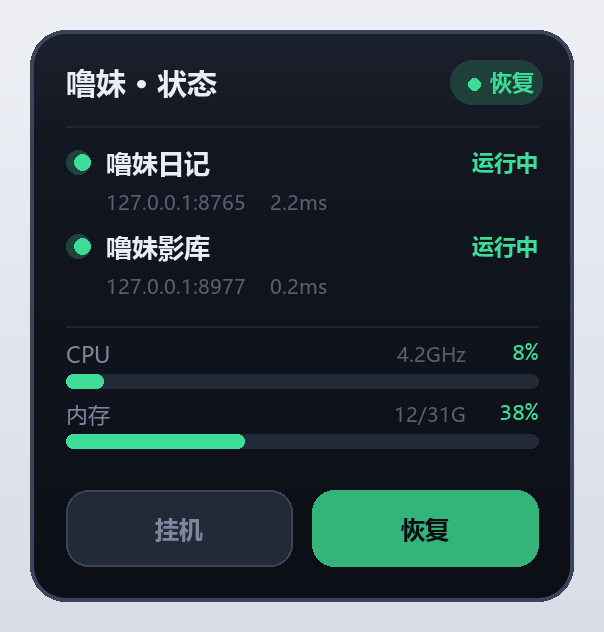
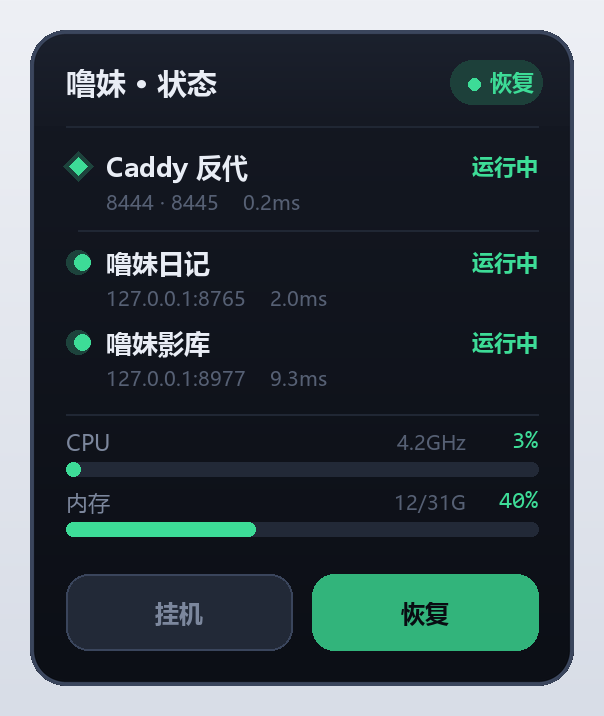
feat(widget): 增加 Caddy 反代入口状态行
Caddy 是日记(8444)与影库(8445)共用的入口，它挂了两个服务会同时失联，
而本机 8765/8977 两个端口还都通 —— 只看端口的面板看不出这种情况。
所以单独一行，菱形圆点与下面两个圆形服务点区分，入口与后端之间加淡分隔线。
三态：两个站点都在=运行中、只在一个=部分、都不在=未运行。
托盘图标同步改为三条色条（上=Caddy），不跑 Caddy 时只画两条。

diff --git a/lulu-watch/widget.py b/lulu-watch/widget.py
@@ -59,7 +59,7 @@ SCALE = _system_scale()
 
 
 # ==================== 外观常量（逻辑坐标，渲染时乘 SCALE）====================
-W, H = 272, 286
+W, H = 272, 328
 RADIUS = 18
 SS = 3                       # 圆角超采样倍数
 KEY = "#ff00ff"              # 透明键色
@@ -91,6 +91,11 @@ MODE_IDLE = "79d386e3-3601-482d-aeb4-cc38e16c3d8f"
 MODE_NORMAL = "381b4222-f694-41f0-9685-ff5bb260df2e"
 
 SERVICES = [("噜妹日记", 8765), ("噜妹影库", 8977)]
+
+# Caddy 是这两个服务共用的入口：8444 -> 日记、8445 -> 影库。
+# 它挂了两个服务会同时失联，而本机两个端口还都通，所以单独一行。
+CADDY_PORTS = [8444, 8445]
+CADDY_NAME = "Caddy 反代"
 
 CONF = os.path.join(os.environ.get("APPDATA", "."), "lulu-watch.json")
 CONF_LEGACY = os.path.join(os.environ.get("APPDATA", "."), "lulu-widget.json")
@@ -169,6 +174,20 @@ def probe_port(port, timeout=0.35):
         return False, None
 
 
+def probe_caddy(ports=None, timeout=0.35):
+    """Caddy 一个进程挂多个站点，所以数「几个端口在听」而不是看单点。
+    返回 (活着的端口列表, 最快一次握手耗时)。"""
+    ports = ports or CADDY_PORTS
+    live, best = [], None
+    for p in ports:
+        up, ms = probe_port(p, timeout)
+        if up:
+            live.append(p)
+            if ms is not None and (best is None or ms < best):
+                best = ms
+    return live, best
+
+
 def active_scheme():
     try:
         import winreg
@@ -183,20 +202,28 @@ def active_scheme():
 
 
 # ==================== 托盘图标 ====================
-def tray_image(svc=None):
-    """64x64：深色圆角底 + 两条状态色条（上=日记，下=影库），缩小到 16px 也能看清死活"""
+def tray_image(svc=None, caddy=None):
+    """64x64：深色圆角底 + 三条状态色条（上=Caddy，中=日记，下=影库），
+    缩小到 16px 也能看清死活。Caddy 那条画得短一点、两端带缺口，
+    一眼能和下面两条服务条区分开。"""
     S = 64
     img = Image.new("RGBA", (S, S), (0, 0, 0, 0))
     d = ImageDraw.Draw(img)
     d.rounded_rectangle([2, 2, S - 3, S - 3], radius=14,
                         fill=(22, 27, 38, 255), outline=(80, 94, 122, 255), width=2)
-    states = [bool(s.get("up")) for s in (svc or [])][:2]
-    while len(states) < 2:
-        states.append(False)
-    for i, up in enumerate(states):
+    bars = []
+    if caddy is not None:
+        bars.append(bool(caddy))
+    bars += [bool(s.get("up")) for s in (svc or [])][:2]
+    # 不跑 Caddy 时（caddy=None）只画两条服务条，不要多出一条假的红条
+    need = 3 if caddy is not None else 2
+    while len(bars) < need:
+        bars.append(False)
+    for i, up in enumerate(bars):
         c = (61, 220, 151, 255) if up else (255, 92, 108, 255)
-        y = 17 + i * 15
-        d.rounded_rectangle([14, y, 50, y + 10], radius=5, fill=c)
+        y = 13 + i * 13
+        x1, x2 = (18, 46) if i == 0 else (14, 50)
+        d.rounded_rectangle([x1, y, x2, y + 8], radius=4, fill=c)
     return img
 
 
@@ -272,8 +299,39 @@ def build_image(data, hover=None, k=None):
     lw = max(1, P(1))
     d.line([(px(18), px(48)), (pw - px(18), px(48))], fill=CLR["divider"], width=lw)
 
+    # ---------- Caddy 入口（菱形点，和下面两个圆形服务点区分） ----------
+    cad = data.get("caddy") or {}
+    live = cad.get("live") or []
+    cst = cad.get("state") or "down"
+    ccol = {"ok": CLR["ok"], "warn": CLR["warn"]}.get(cst, CLR["bad"])
+    cword = {"ok": "运行中", "warn": "部分", }.get(cst, "未运行")
+
+    ccy, csy = 68, 86
+    # 菱形：以 (24, ccy) 为中心，外圈淡色底 + 内圈实色
+    def diamond(cx, cy, r, fill):
+        d.polygon([(px(cx), px(cy - r)), (px(cx + r), px(cy)),
+                   (px(cx), px(cy + r)), (px(cx - r), px(cy))], fill=fill)
+    diamond(24, ccy, 7.5, _tint(ccol, CLR["bg_top"], 0.22))
+    diamond(24, ccy, 4.6, ccol)
+    d.text((px(38), px(ccy)), CADDY_NAME, font=F["name"], fill=CLR["fg"],
+           anchor="lm")
+    d.text((pw - px(18), px(ccy)), cword, font=F["status"], fill=ccol,
+           anchor="rm")
+    if live:
+        sub = " · ".join(str(p) for p in live)
+        if cad.get("ms") is not None:
+            sub += f"    {cad['ms']:.1f}ms"
+    else:
+        sub = " / ".join(str(p) for p in CADDY_PORTS) + " 都没在听" if CADDY_PORTS else "没配端口"
+    d.text((px(38), px(csy)), sub, font=F["sub"], fill=CLR["fg_faint"],
+           anchor="lm")
+
+    # 入口与后端之间用更淡的分隔，暗示「这两条服务挂在它后面」
+    d.line([(px(24), px(100)), (pw - px(18), px(100))],
+           fill=CLR["divider"], width=lw)
+
     # ---------- 服务状态 ----------
-    rows = [(66, 86), (108, 128)]
+    rows = [(116, 134), (156, 174)]
     for i, s in enumerate(data.get("svc", [])[:2]):
         cy, sy = rows[i]
         up = s.get("up")
@@ -291,7 +349,7 @@ def build_image(data, hover=None, k=None):
         d.text((px(38), px(sy)), sub, font=F["sub"], fill=CLR["fg_faint"],
                anchor="lm")
 
-    d.line([(px(18), px(148)), (pw - px(18), px(148))],
+    d.line([(px(18), px(192)), (pw - px(18), px(192))],
            fill=CLR["divider"], width=lw)
 
     # ---------- CPU / 内存 ----------
@@ -318,16 +376,16 @@ def build_image(data, hover=None, k=None):
         cpu_hint = f"{_cf.current / 1000:.1f}GHz" if _cf and _cf.current else ""
     except Exception:
         cpu_hint = ""
-    gauge(162, 172, "CPU", float(data.get("cpu") or 0), cpu_hint)
+    gauge(206, 216, "CPU", float(data.get("cpu") or 0), cpu_hint)
     used = data.get("mem_used") or 0
     total = data.get("mem_total") or 0
-    gauge(192, 202, "内存", float(data.get("mem") or 0),
+    gauge(236, 246, "内存", float(data.get("mem") or 0),
           f"{used:.0f}/{total:.0f}G" if total else "")
 
     # ---------- 按钮 ----------
     buttons = {}
     bw = (W - 36 - 10) // 2
-    by1, by2 = 230, 268
+    by1, by2 = 272, 310
     specs = [(18, "挂机", MODE_IDLE, CLR["accent"]),
              (18 + bw + 10, "恢复", MODE_NORMAL, CLR["ok"])]
     for bx, text, guid, color in specs:
@@ -370,12 +428,20 @@ class Sampler(threading.Thread):
                 for name, port in SERVICES:
                     up, ms = probe_port(port)
                     svc.append({"name": name, "port": port, "up": up, "ms": ms})
+                live, cms = probe_caddy()
+                caddy = {
+                    "live": live,
+                    "ms": cms,
+                    "state": ("ok" if len(live) == len(CADDY_PORTS)
+                              else "warn" if live else "down"),
+                }
                 self.q.put({
                     "cpu": psutil.cpu_percent(interval=None),
                     "mem": vm.percent,
                     "mem_used": vm.used / (1024 ** 3),
                     "mem_total": vm.total / (1024 ** 3),
                     "svc": svc,
+                    "caddy": caddy,
                     "scheme": active_scheme(),
                 })
             except Exception:
@@ -417,6 +483,7 @@ class Widget:
             "cpu": 0.0, "mem": 0.0, "mem_used": 0, "mem_total": 0,
             "svc": [{"name": n, "port": p, "up": False, "ms": None}
                     for n, p in SERVICES],
+            "caddy": {"live": [], "ms": None, "state": "down"},
             "scheme": active_scheme(),
         }
         self.buttons = {}
@@ -651,6 +718,7 @@ class Widget:
             menu = Menu(
                 MenuItem(lambda item: "隐藏挂件" if self._vis else "显示挂件",
                          self._on_tray_vis, default=True),
+                MenuItem(lambda item: self._caddy_line(), None, enabled=False),
                 MenuItem(lambda item: self._svc_line(0), None, enabled=False),
                 MenuItem(lambda item: self._svc_line(1), None, enabled=False),
                 Menu.SEPARATOR,
@@ -664,7 +732,8 @@ class Widget:
                 MenuItem("退出", lambda icon, item: self._post(self.quit)),
             )
             self.tray = pystray.Icon("lulu-watch",
-                                     tray_image(self.data.get("svc")),
+                                     tray_image(self.data.get("svc"),
+                                                self._caddy_up()),
                                      "噜妹 · 状态", menu)
             self.tray.run_detached()
         except Exception:
@@ -676,6 +745,21 @@ class Widget:
                     f.write(traceback.format_exc())
             except Exception:
                 pass
+
+    def _caddy_up(self):
+        """托盘图标只要一个真假值：Caddy 两个站点都在才算活着"""
+        cad = self.data.get("caddy") or {}
+        return (cad.get("state") == "ok") if cad else None
+
+    def _caddy_line(self):
+        cad = self.data.get("caddy") or {}
+        if not cad:
+            return "%s  —" % CADDY_NAME
+        st = cad.get("state")
+        word = {"ok": "运行中", "warn": "部分", }.get(st, "未运行")
+        live = cad.get("live") or []
+        return "%s  %s（%s）" % (CADDY_NAME, word,
+                                "·".join(str(p) for p in live) or "无端口")
 
     def _svc_line(self, i):
         svc = self.data.get("svc") or []
@@ -704,15 +788,16 @@ class Widget:
             self._bring_front()
 
     def _sync_tray(self):
-        """服务状态一变，就把托盘图标的两条色条换个颜色"""
+        """状态一变就把托盘图标的色条换颜色：上=Caddy，中=日记，下=影库"""
         if not self.tray:
             return
-        sig = tuple(bool(s.get("up")) for s in (self.data.get("svc") or []))
+        sig = (self._caddy_up(),
+               tuple(bool(s.get("up")) for s in (self.data.get("svc") or [])))
         if sig == self._tray_sig:
             return
         self._tray_sig = sig
         try:
-            self.tray.icon = tray_image(self.data.get("svc"))
+            self.tray.icon = tray_image(self.data.get("svc"), self._caddy_up())
         except Exception:
             pass
 
@@ -748,6 +833,13 @@ def preview(k=2.0):
     for name, port in SERVICES:
         up, ms = probe_port(port)
         svc.append({"name": name, "port": port, "up": up, "ms": ms})
+    live, cms = probe_caddy()
+    caddy = {
+        "live": live,
+        "ms": cms,
+        "state": ("ok" if len(live) == len(CADDY_PORTS)
+                  else "warn" if live else "down"),
+    }
     vm = psutil.virtual_memory()
     data = {
         "cpu": psutil.cpu_percent(interval=0.3),
@@ -755,6 +847,7 @@ def preview(k=2.0):
         "mem_used": vm.used / (1024 ** 3),
         "mem_total": vm.total / (1024 ** 3),
         "svc": svc,
+        "caddy": caddy,
         "scheme": scheme,
     }
 

diff --git a/lulu-watch/README.md b/lulu-watch/README.md
@@ -1,6 +1,6 @@
 # 噜妹状态挂件（lulu-watch）
 
-Windows 桌面小贴纸。透明圆角卡片，常驻右下角，实时显示本机电源模式、两个本地服务的存活状态、CPU 与内存占用，并可一键切换「挂机 / 恢复」电源方案。
+Windows 桌面小贴纸。透明圆角卡片，常驻右下角，实时显示本机电源模式、Caddy 入口与两个本地服务的存活状态、CPU 与内存占用，并可一键切换「挂机 / 恢复」电源方案。
 
 ![preview](preview.png)
 
@@ -11,10 +11,11 @@ Windows 桌面小贴纸。透明圆角卡片，常驻右下角，实时显示本
 | 区域 | 内容 |
 |---|---|
 | 顶部徽章 | 当前电源方案名称，颜色随方案变化（挂机=蓝、恢复=绿、守夜=紫、高性能=橙） |
+| Caddy 入口 | 8444 / 8445 哪个站点在听、握手耗时；菱形圆点 + 分隔线，表示它是下面两个服务共用的入口 |
 | 服务状态 | 噜妹日记（8765）、噜妹影库（8977）是否监听、握手耗时 ms |
 | 指标 | CPU 占用 + 当前频率、内存占用 + 已用/总量 |
 | 按钮 | 「挂机」「恢复」一键切换电源方案，当前方案按钮高亮 |
-| 托盘图标 | 右下角常驻，两条色条 = 两个服务存活状态（绿/红），也是挂件被盖住时的唤出入口 |
+| 托盘图标 | 右下角常驻，三条色条 = Caddy / 日记 / 影库 的存活状态（绿/红），也是挂件被盖住时的唤出入口 |
 
 交互：
 - 左键拖动 = 移动位置（位置写入 `%APPDATA%\lulu-watch.json`，下次启动还原；改名前的 `lulu-widget.json` 也认）
@@ -64,10 +65,11 @@ python  widget.py --preview  :: 只渲染预览图 preview.png / preview_dark.pn
 
 ## 换机器时需要改的地方
 
-代码里所有与本机绑定的值集中在文件头部，改这 3 处即可：
+代码里所有与本机绑定的值集中在文件头部，改这 4 处即可：
 
 1. **服务端口** —— `SERVICES = [("噜妹日记", 8765), ("噜妹影库", 8977)]`
-2. **电源方案 GUID** —— `SCHEMES` 字典与 `MODE_IDLE` / `MODE_NORMAL`。系统内置方案 GUID 是通用的：
+2. **Caddy 入口端口** —— `CADDY_PORTS = [8444, 8445]`（两个服务经 Caddy 反代对外的 TLS 端口）。不跑 Caddy 的机器上，把 `build_image()` 里「Caddy 入口」那一段连同它下面那条分隔线一起删掉，并把 `H` 减去 42、后续的 y 坐标各自上移（`rows`、`192`、`gauge` 的 206/216/236/246、按钮的 272/310）；或者干脆保留这一行，让它显示「未运行」当作一个明确的口子。
+3. **电源方案 GUID** —— `SCHEMES` 字典与 `MODE_IDLE` / `MODE_NORMAL`。系统内置方案 GUID 是通用的：
 
    | 方案 | GUID |
    |---|---|
@@ -83,17 +85,18 @@ python  widget.py --preview  :: 只渲染预览图 preview.png / preview_dark.pn
    ```
 
    脚本会复制「平衡」方案、套上 CPU 5~60% / 显示器 10 分钟关 / 不休眠 / 硬盘常转的参数，并把生成的新 GUID 自动替换进同级 `widget.py`（备份为 `widget.py.bak`）。方案已存在时只重设参数，不会重复创建。
-3. **字体** —— `_font()` 里优先用微软雅黑（`msyh.ttc` / `msyhbd.ttc`），缺失时降级到黑体、宋体、默认字体。
+4. **字体** —— `_font()` 里优先用微软雅黑（`msyh.ttc` / `msyhbd.ttc`），缺失时降级到黑体、宋体、默认字体。
 
 ## 实现要点
 
 - **按物理像素渲染**：启动时 `SetProcessDpiAwareness(1)` 取系统 DPI，`SCALE = dpi/96`，窗口尺寸与所有坐标都乘 `SCALE`，避免 4K/150% 缩放下文字被系统二次拉伸发虚。
 - **透明圆角**：窗口 `-transparentcolor #ff00ff` 抠图；圆角蒙版单独用 L 通道超采样（`SS` 倍）后二值化阈值化，避免缩放后边缘残留洋红像素。渐变背景层按 `SCALE` 缓存复用，不每帧重绘。
-- **采样与绘制解耦**：后台线程每 1.2s 采一次 `psutil` + 两次 TCP 握手，放进 `queue`；主线程 `after(150ms)` 非阻塞取最新值重绘。
+- **采样与绘制解耦**：后台线程每 1.2s 采一次 `psutil` + 三次 TCP 握手（Caddy 两个端口 + 两个服务端口），放进 `queue`；主线程 `after(150ms)` 非阻塞取最新值重绘。
+- **Caddy 为什么单独一行**：8444 与 8445 是**同一个 Caddy 进程里的两个站点**，不是两个独立服务。它一挂，手机和电视两个入口同时失联，而本机 8765 / 8977 两个端口还都通 —— 这种情况在只看端口的面板上看不出来。所以 Caddy 单列一行，用**菱形**圆点与下面两个**圆形**服务点区分，并在入口与后端之间加一条更淡的分隔线，表示「这两条服务挂在它后面」。三态：两个端口都在 = 运行中（绿）、只在一个 = 部分（琥珀）、都不在 = 未运行（红）。
 - **切换方案不卡界面**：点击后先乐观更新徽章颜色，再后台 `subprocess` 调 `powercfg /setactive`，完成后回读真实值。
 - **层级**：默认不置顶（`-topmost` 关闭，不做定时强制）。需要常驻最前时由用户勾选「始终置顶」，此时才每 2.5s 用 `SetWindowPos(HWND_TOPMOST)` 重申一次（其他程序的置顶窗会压过 tk 自己的属性）。
 - **托盘**：`pystray` 在独立线程跑消息循环。无边框窗口不在任务栏显示，一旦被别的窗口盖住就点不到，托盘图标是唯一的唤出入口。托盘回调不能直接碰 tk 控件（tk 非线程安全），统一投进 `queue`，由主线程 `_poll` 消费；菜单文本用 callable，每次弹出时实时求值，所以状态是活的。
-- **托盘图标兼作状态灯**：服务存活状态一变，重画图标（两条色条由绿转红），不用展开挂件也知道有没有服务挂了。
+- **托盘图标兼作状态灯**：Caddy 或任一服务的存活状态一变，重画图标（三条色条由绿转红，上=Caddy、中=日记、下=影库），不用展开挂件也知道有没有东西挂了。
 
 ## 已知限制
 
@@ -101,7 +104,7 @@ python  widget.py --preview  :: 只渲染预览图 preview.png / preview_dark.pn
 - 无边框窗口不出现在任务栏，被其他窗口盖住时只能从托盘图标唤出（曾试过 Ctrl+Alt 全局热键，已弃用）。
 - Win11 上新注册的托盘图标可能被折叠进「^ 溢出区」，拖到任务栏上固定一次即可。
 - 切换电源方案本身不需要管理员权限，但如果目标方案被组策略锁定，`powercfg /setactive` 会静默失败，徽章会回读显示真实方案。
-- 服务探测是 TCP 握手，只能判断端口是否在监听，不代表服务内部逻辑健康。
+- 探测是 TCP 握手，只能判断端口是否在监听，不代表服务内部逻辑健康；Caddy 同理，只看 8444/8445 在不在听，不代表证书和反代规则都对。
 - 启动异常写到同目录 `error.log`；托盘初始化失败（例如没装 pystray）写 `tray-error.log`，挂件本体照常可用。
 
 ## 相关背景
